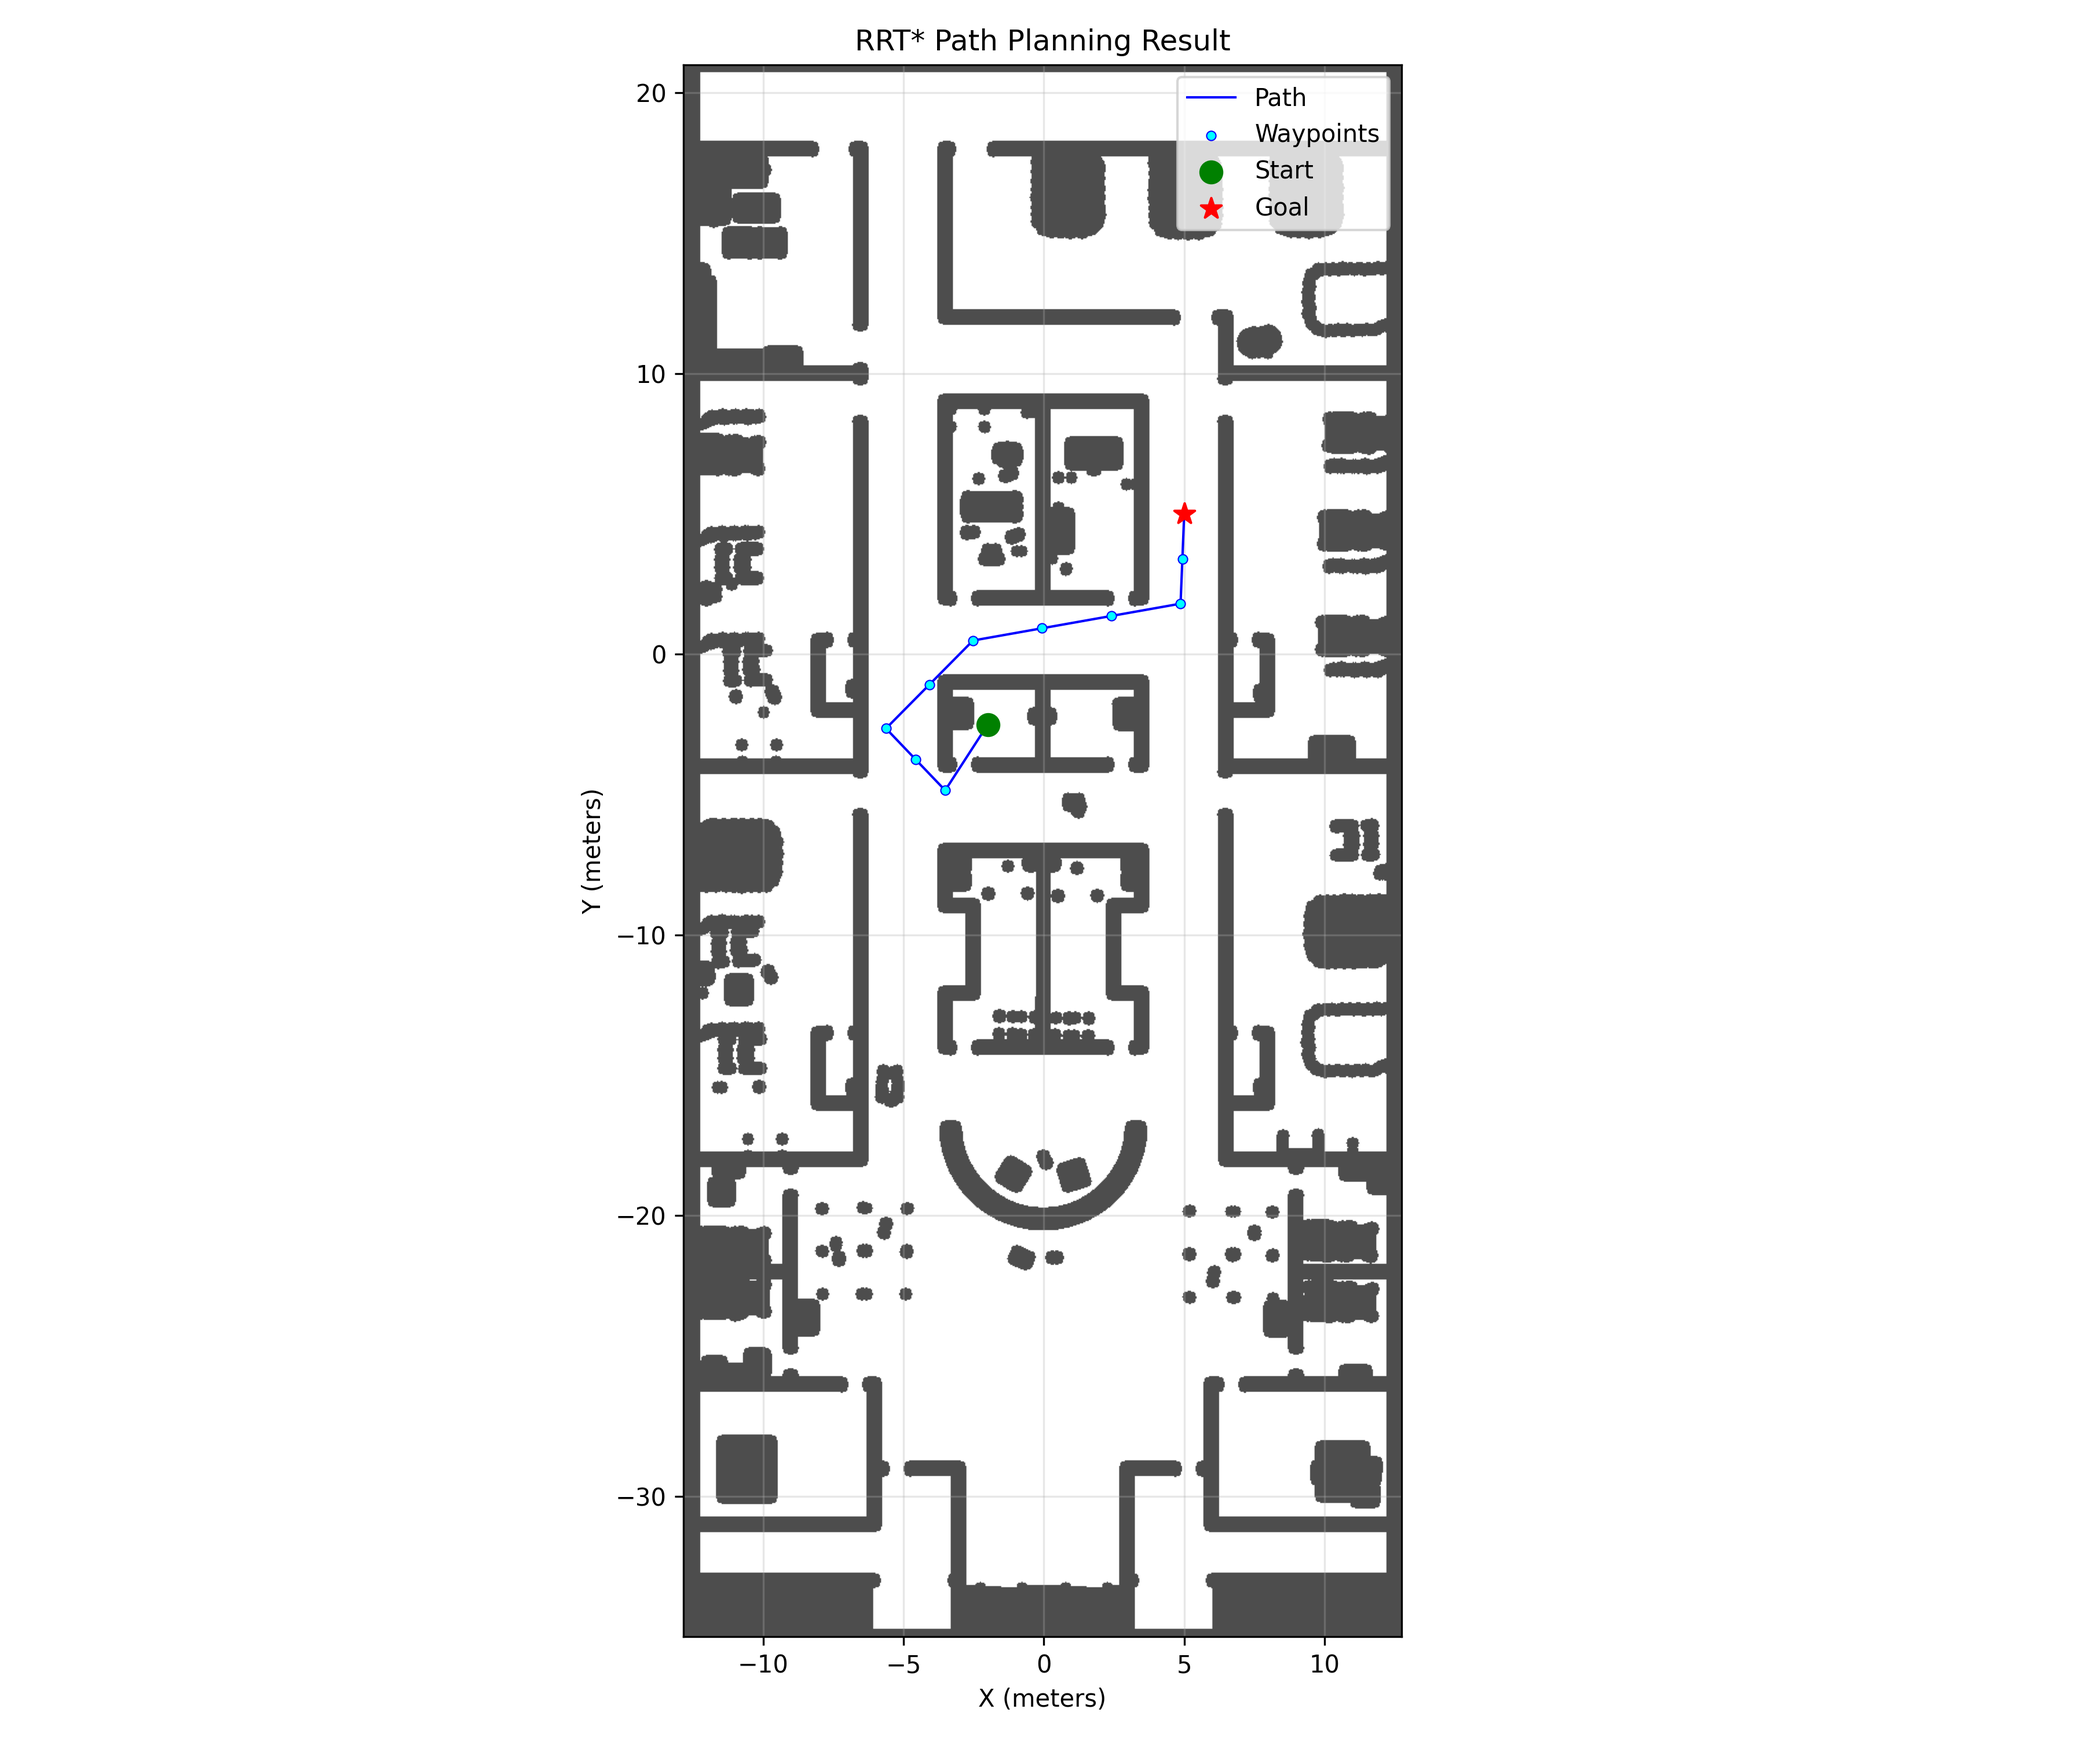
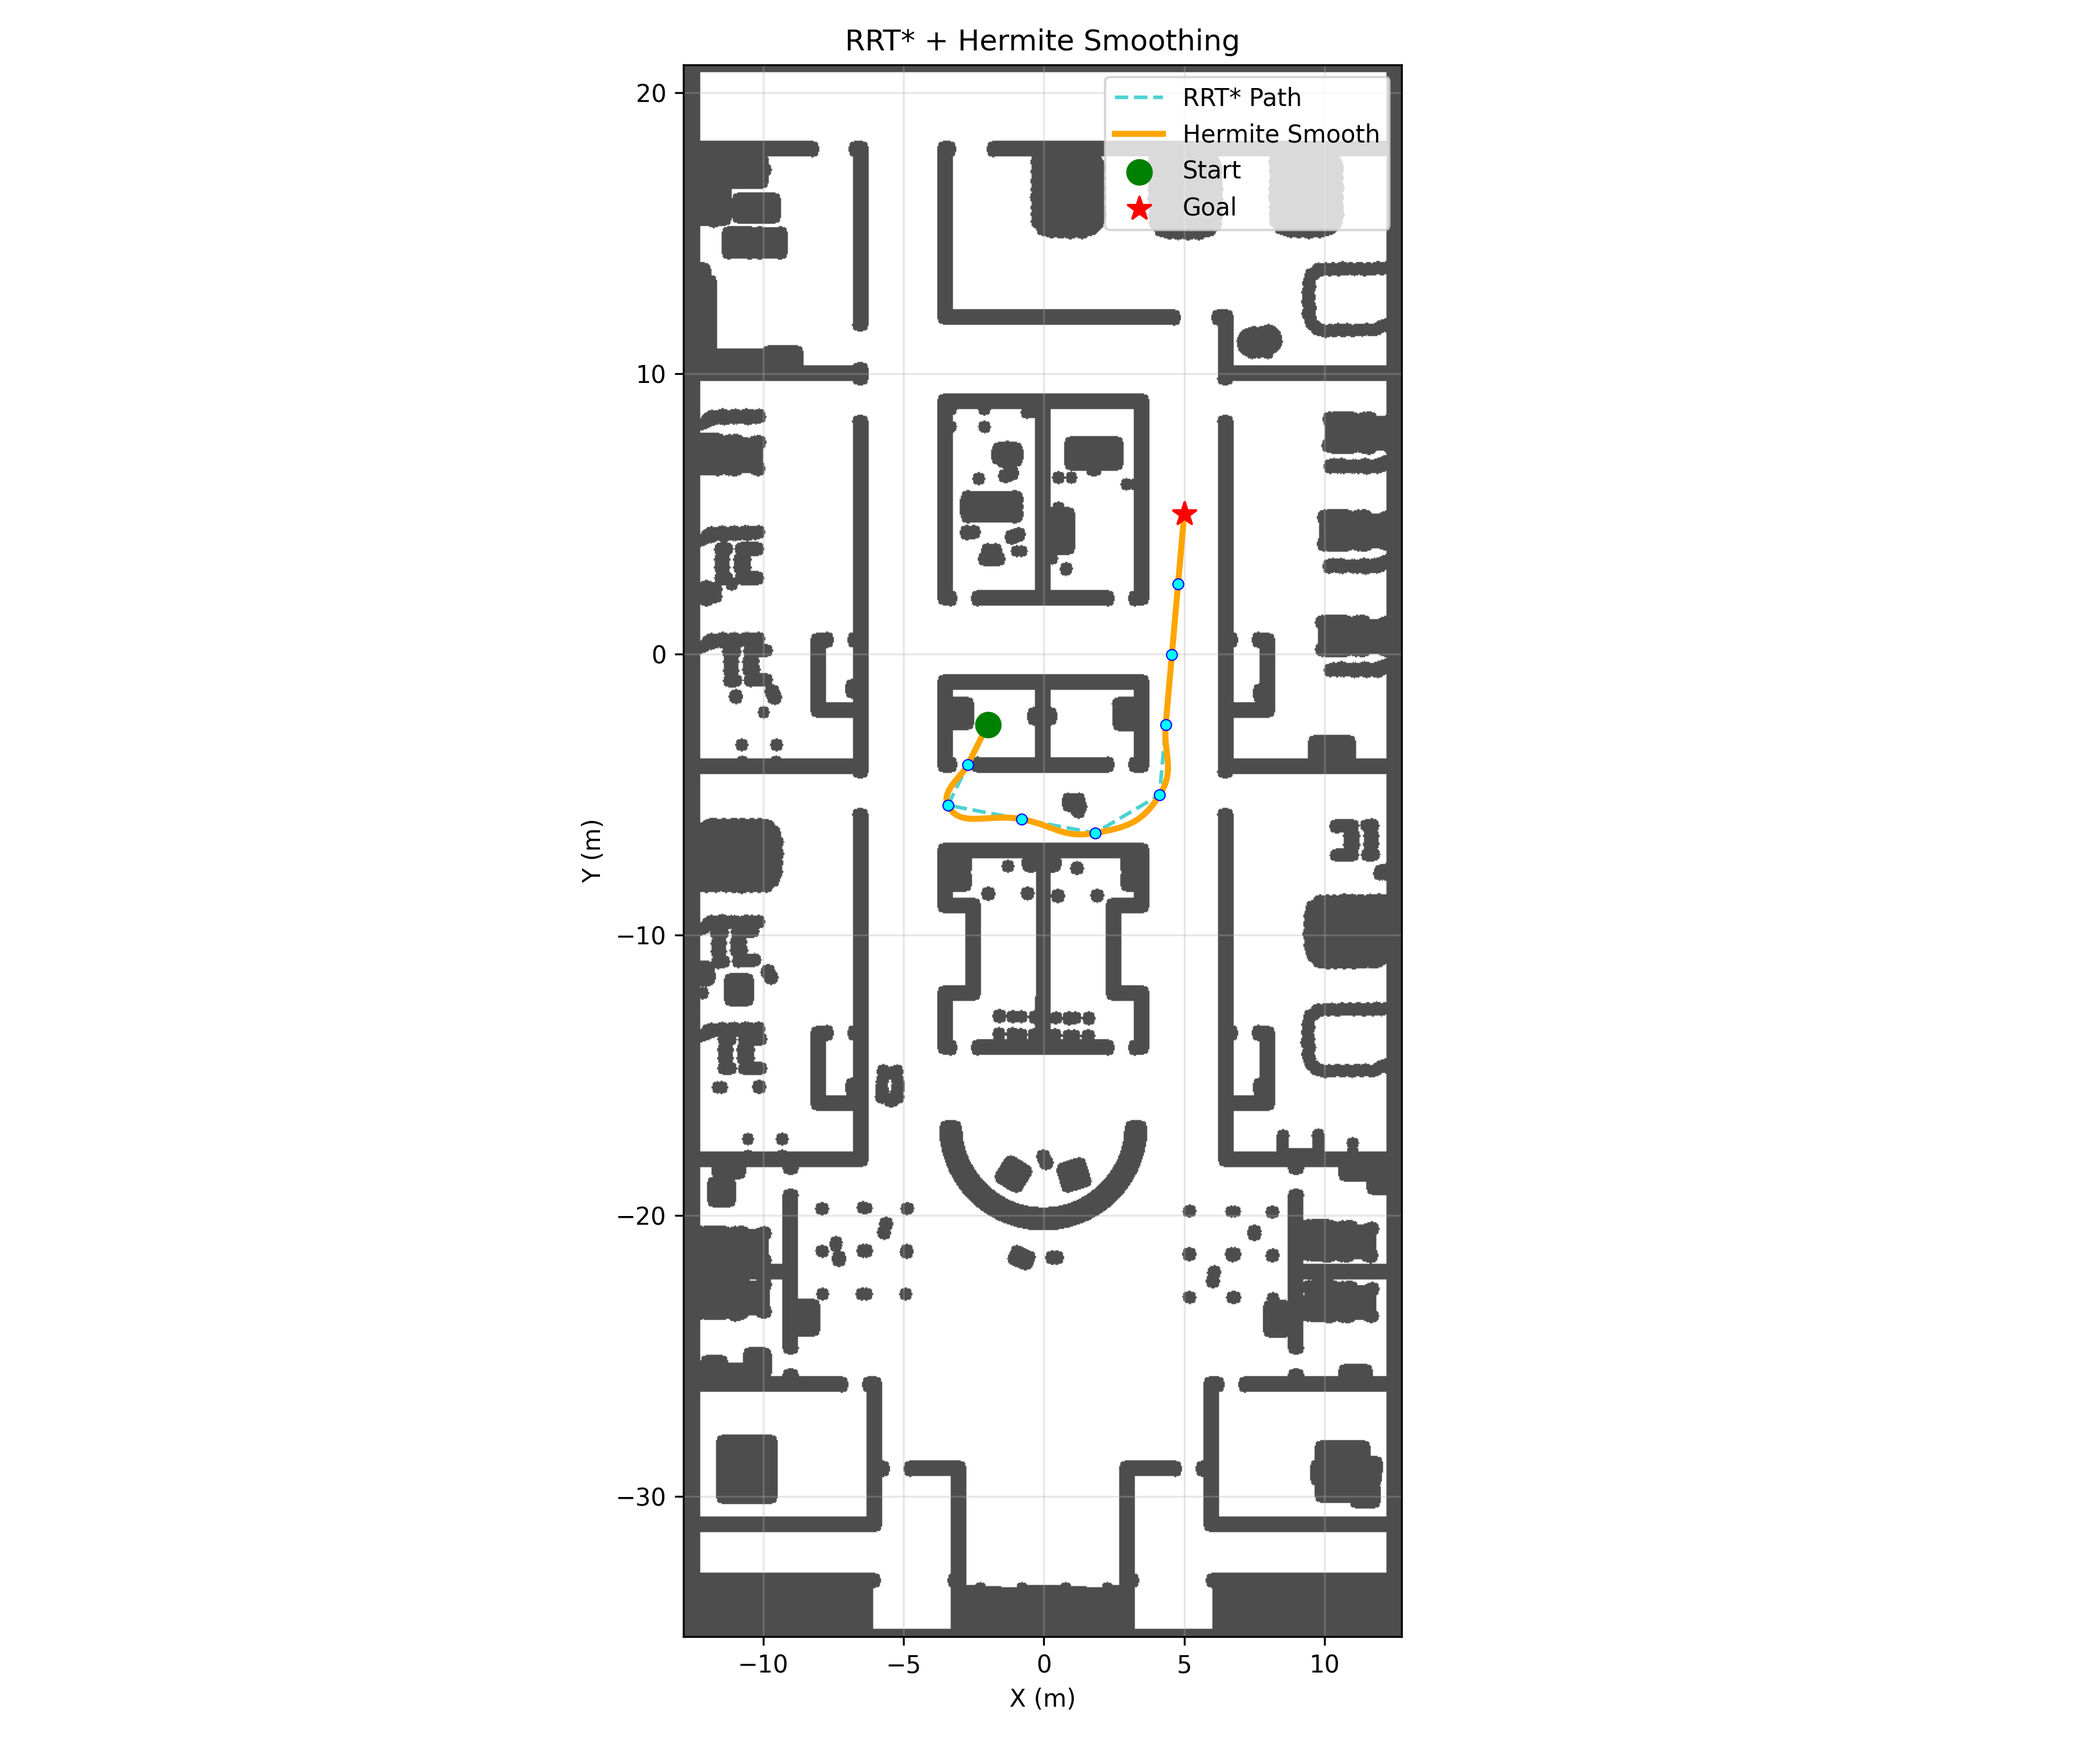
Adding Smoothing with Hermite splines to the pipeline

diff --git a/sparx_agency/demos/planner_demo/run_pipeline.py b/sparx_agency/demos/planner_demo/run_pipeline.py
@@ -1,6 +1,6 @@
 #!/usr/bin/env python3
 """
-RRT* Planner Demo - Uses project modules.
+RRT* Planner Demo with Hermite Smoothing.
 
 Usage:
     python run_pipeline.py
@@ -17,34 +17,30 @@ from sparx_agency.core.mapping.costmap.occupancy import occupancy_from_grayscale
 from sparx_agency.core.mapping.costmap.distance_field import compute_clearance_field, DistanceFieldParams
 from sparx_agency.core.mapping.costmap.inflation import inflate_occupancy, InflationParams
 from sparx_agency.core.planning.interfaces.planner import PlanRequest
-
-# RRT* - adjust path if needed
+from sparx_agency.core.planning.interfaces.smoother import SmootherRequest
 from sparx_agency.core.planning.planners.rrtstar import RRTStarOmplPlanner, RRTStarOmplParams
+from sparx_agency.core.planning.smoothers.hermite import HermiteSmoother, HermiteParams
 
 
 def load_map(pgm_path: str, yaml_path: str, inflate_radius: float = 0.1) -> Costmap2D:
-    """Load PGM map with YAML metadata using project modules."""
-    # Load YAML config
+    """Load PGM map with YAML metadata."""
     with open(yaml_path, 'r') as f:
         config = yaml.safe_load(f)
 
     resolution = config['resolution']
-    origin = config['origin']  # [x, y, theta]
+    origin = config['origin']
 
-    # Load PGM image
     img = plt.imread(pgm_path)
     if img.max() <= 1.0:
         img = (img * 255).astype(np.uint8)
 
-    # Convert to occupancy: White (>=250) = free, Gray/Black = occupied
     thresholds = OccupancyThresholds(
-        occupied_if_below=249,  # Gray and black are walls
-        free_if_above=250,      # Only white is free
+        occupied_if_below=249,
+        free_if_above=250,
         unknown_as_occupied=True
     )
     occupancy = occupancy_from_grayscale(img, thresholds)
 
-    # Optional: inflate obstacles for safety margin
     if inflate_radius > 0:
         occupancy = inflate_occupancy(
             occupancy,
@@ -52,14 +48,12 @@ def load_map(pgm_path: str, yaml_path: str, inflate_radius: float = 0.1) -> Cost
             params=InflationParams(radius_m=inflate_radius)
         )
 
-    # Compute clearance field for cost optimization
     clearance = compute_clearance_field(
         occupancy,
         resolution=resolution,
         params=DistanceFieldParams()
     )
 
-    # Build Costmap2D
     params = CostmapParams(
         resolution=resolution,
         origin_x=origin[0],
@@ -69,8 +63,9 @@ def load_map(pgm_path: str, yaml_path: str, inflate_radius: float = 0.1) -> Cost
     return Costmap2D(occupancy, params, clearance=clearance)
 
 
-def visualize(costmap: Costmap2D, start: Pose2D, goal: Pose2D, waypoints, save_path: str = "path_result.png"):
-    """Visualize map with path overlay."""
+def visualize(costmap: Costmap2D, start: Pose2D, goal: Pose2D,
+              waypoints, trajectory=None, save_path: str = "path_result.png"):
+    """Visualize map with raw path and smoothed trajectory."""
     fig, ax = plt.subplots(figsize=(12, 10))
 
     # Show map
@@ -78,21 +73,29 @@ def visualize(costmap: Costmap2D, start: Pose2D, goal: Pose2D, waypoints, save_p
               costmap.origin_y, costmap.origin_y + costmap.height * costmap.resolution]
     ax.imshow(costmap.occupancy, cmap='gray_r', origin='lower', extent=extent, alpha=0.7)
 
-    # Plot path
+    # Plot raw path (cyan)
     if waypoints:
         xs = [p.x for p in waypoints]
         ys = [p.y for p in waypoints]
-        ax.plot(xs, ys, 'b-', linewidth=1, label='Path')
-        ax.scatter(xs, ys, c='cyan', s=15, marker='o', edgecolors='blue', linewidths=0.5, zorder=5, label='Waypoints')
+        ax.plot(xs, ys, 'c--', linewidth=1.5, alpha=0.7, label='RRT* Path')
+        ax.scatter(xs, ys, c='cyan', s=20, marker='o', edgecolors='blue',
+                   linewidths=0.5, zorder=5)
+
+    # Plot smoothed trajectory (orange)
+    if trajectory:
+        samples = trajectory.sample_by_time(dt=0.05)
+        tx = [s.x for s in samples]
+        ty = [s.y for s in samples]
+        ax.plot(tx, ty, color='orange', linewidth=2.5, label='Hermite Smooth')
 
     # Mark start/goal
-    ax.scatter(start.x, start.y, c='green', s=80, marker='o', label='Start', zorder=10)
-    ax.scatter(goal.x, goal.y, c='red', s=80, marker='*', label='Goal', zorder=10)
+    ax.scatter(start.x, start.y, c='green', s=100, marker='o', label='Start', zorder=10)
+    ax.scatter(goal.x, goal.y, c='red', s=100, marker='*', label='Goal', zorder=10)
 
-    ax.set_xlabel('X (meters)')
-    ax.set_ylabel('Y (meters)')
-    ax.set_title('RRT* Path Planning Result')
-    ax.legend()
+    ax.set_xlabel('X (m)')
+    ax.set_ylabel('Y (m)')
+    ax.set_title('RRT* + Hermite Smoothing')
+    ax.legend(loc='upper right')
     ax.set_aspect('equal')
     ax.grid(True, alpha=0.3)
 
@@ -103,25 +106,22 @@ def visualize(costmap: Costmap2D, start: Pose2D, goal: Pose2D, waypoints, save_p
 
 
 def main():
-    # === CONFIG ===
     MAP_DIR = Path(__file__).parent / "maps"
     PGM_FILE = MAP_DIR / "hospital_map_cropped.pgm"
     YAML_FILE = MAP_DIR / "hospital_map_cropped.yaml"
 
-    # Hardcoded start/goal (adjust based on your map!)
     START = Pose2D(x=-2.0, y=-2.5)
     GOAL = Pose2D(x=5.0, y=5.0)
 
-    # === LOAD MAP ===
+    # Load map
     print(f"Loading map: {PGM_FILE}")
     costmap = load_map(str(PGM_FILE), str(YAML_FILE), inflate_radius=0.2)
-    print(f"Map size: {costmap.width}x{costmap.height}, resolution: {costmap.resolution}m")
+    print(f"Map: {costmap.width}x{costmap.height}, res={costmap.resolution}m")
 
-    # === PLAN using project's RRTStarPlanner ===
-    print(f"Planning from ({START.x}, {START.y}) to ({GOAL.x}, {GOAL.y})...")
-
+    # Plan with RRT*
+    print(f"Planning: ({START.x}, {START.y}) → ({GOAL.x}, {GOAL.y})")
     planner = RRTStarOmplPlanner(params=RRTStarOmplParams(
-        timeout=3.0,
+        timeout=5.0,
         use_clearance_objective=True,
         clearance_weight=10.0,
         interpolation_spacing=3.0
@@ -131,18 +131,28 @@ def main():
     result = planner.plan(request, costmap)
 
     print(f"Status: {result.status}")
-    print(f"Message: {result.message}")
 
-    if result.path:
-        waypoints = list(result.path.points)
-        print(f"\n=== PATH FOUND ({len(waypoints)} waypoints) ===")
-        for i, wp in enumerate(waypoints):
-            print(f"  [{i:3d}] x={wp.x:8.3f}, y={wp.y:8.3f}")
+    if not result.ok:
+        print(f"Planning failed: {result.message}")
+        return
 
-        # === VISUALIZE ===
-        visualize(costmap, START, GOAL, waypoints, "path_result.png")
-    else:
-        print("Planning failed!")
+    waypoints = list(result.path.points)
+    print(f"Path: {len(waypoints)} waypoints, length={result.path.length():.2f}m")
+
+    # Smooth with Hermite splines
+    print("Smoothing with Hermite splines...")
+    smoother = HermiteSmoother(params=HermiteParams(
+        dt=0.02,
+        nominal_speed_xy=0.5,
+        tangent_scale=0.5,
+    ))
+
+    smooth_request = SmootherRequest(path=result.path)
+    trajectory = smoother.smooth(smooth_request)
+    print(f"Trajectory: {trajectory.total_time:.2f}s")
+
+    # Visualize
+    visualize(costmap, START, GOAL, waypoints, trajectory, "path_result.png")
 
 
 if __name__ == "__main__":
